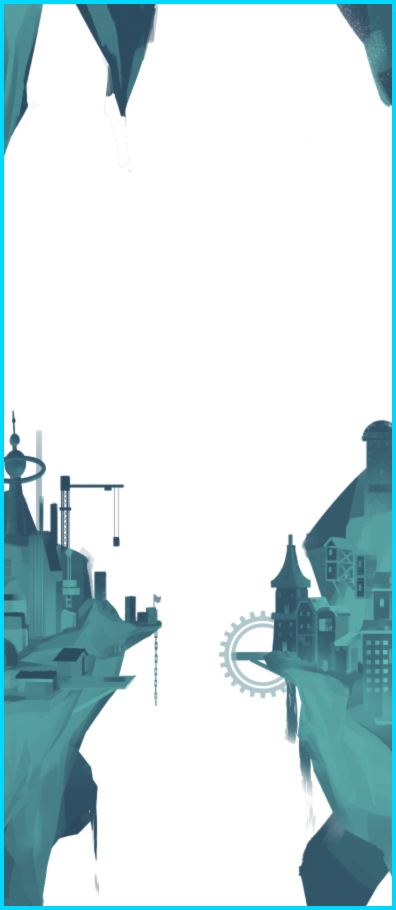
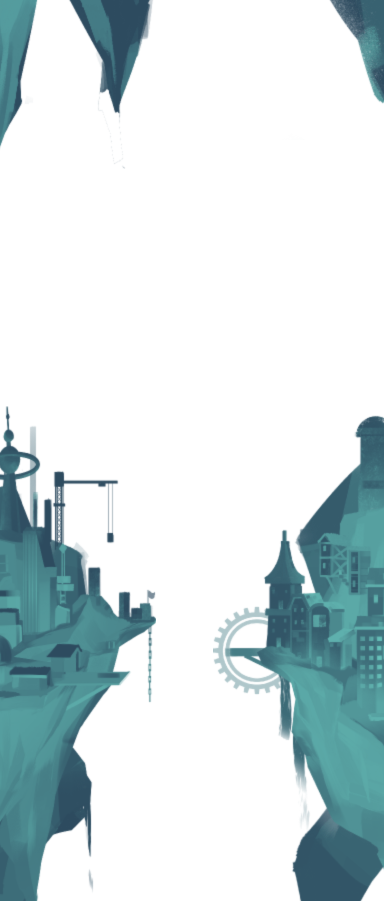
fix : fix image

diff --git a/src/app/page.tsx b/src/app/page.tsx
@@ -9,14 +9,13 @@ import { MapPin, Ship } from "lucide-react"
 export default function HomePage() {
   return (
     <div className="min-h-screen relative overflow-hidden bg-gradient-to-b from-[#2D3542] to-[#2D4D61]">
-      {/* พื้นหลังลาย art (เฟือง/ลวดลายรวม) */}
+      {/* พื้นหลังลายเฟือง */}
       <div className="absolute inset-0 z-0">
         <Image
           src="/landingpage/art-background.png"
           alt=""
           fill
-          priority
-          className="object-contain  object-[center_22%]"
+          className="object-contain object-[center_22%]"
         />
       </div>
 
@@ -26,7 +25,7 @@ export default function HomePage() {
           src="/landingpage/art-foreground.png"
           alt=""
           fill
-          className="object-contain object-top scale-102"
+          className="object-contain object-top scale-102 object-[center_22%]"
         />
       </div>
 
